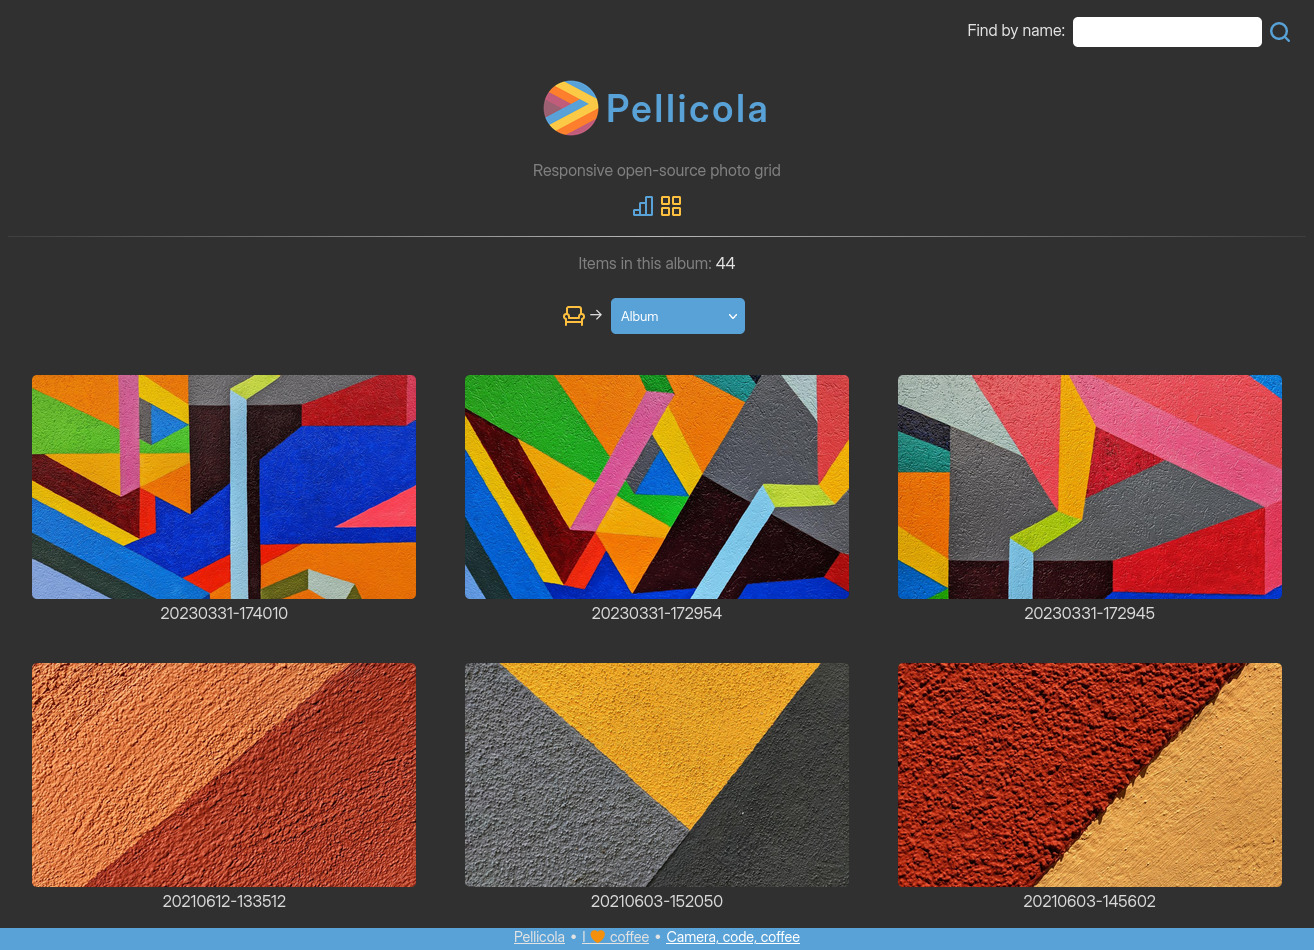
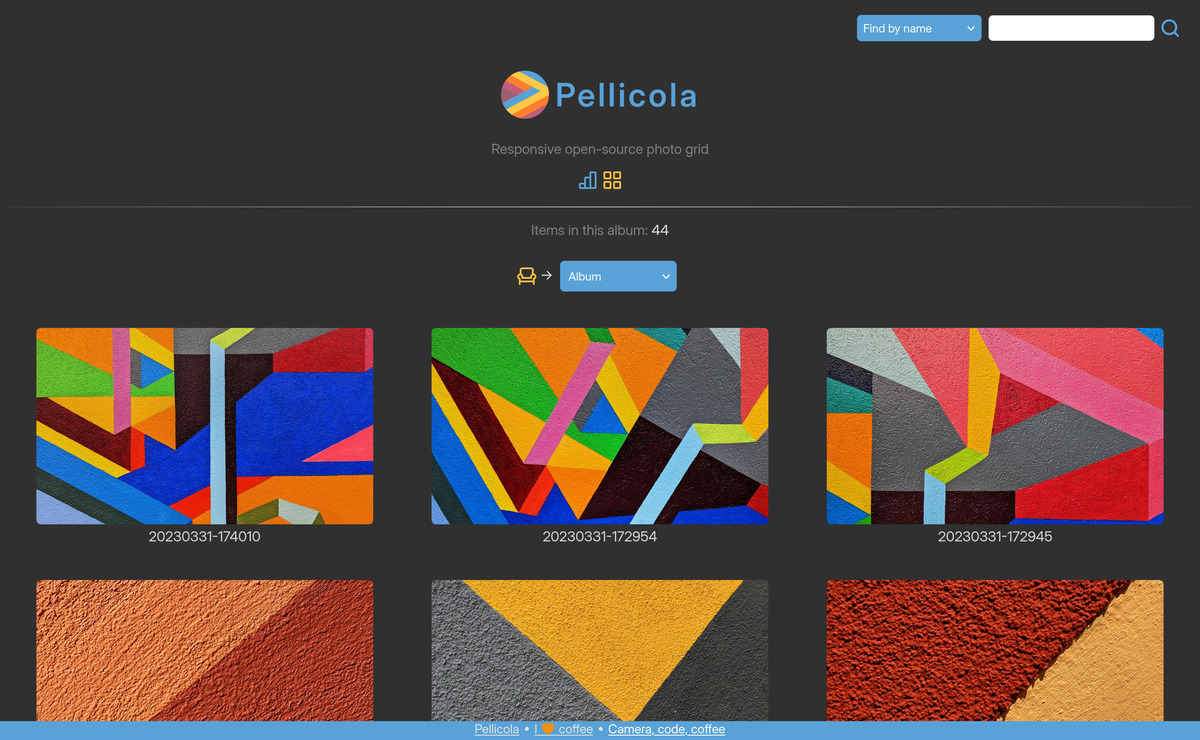
Search by description

diff --git a/index.php b/index.php
@@ -174,9 +174,20 @@ if (session_status() == PHP_SESSION_NONE) {
 			mkdir($tims_dir);
 		}
 
+		$files = array();
 		// Find all files or a specific file if $_GET["query"] is set
-		if (isset($_GET["query"])) {
-			$files = glob($photo_dir . "*" . $_GET["query"] . "*.{" . $img_formats . "}", GLOB_BRACE);
+		if (isset($_GET['query'])) {
+			if ($_GET['search'] == 'search_name') {
+				$files = glob($photo_dir . "*" . $_GET['query'] . "*.{" . $img_formats . "}", GLOB_BRACE);
+			} else {
+				$all_files = glob($photo_dir . "*.{" . $img_formats . "}", GLOB_BRACE);
+				foreach ($all_files as $file) {
+					$exif = exif_read_data($file, 0, true);
+					if (stripos($exif['COMMENT']['0'], $_GET['query']) !== FALSE) {
+						array_push($files, $file);
+					}
+				}
+			}
 		} else {
 			$files = glob($photo_dir . "*.{" . $img_formats . "}", GLOB_BRACE);
 		}
@@ -280,10 +291,15 @@ if (session_status() == PHP_SESSION_NONE) {
 			<!-- Search field in the upper-right corner -->
 			<div class="topcorner">
 				<form autocomplete="off" style="margin-top: 0.5em; margin-right: 1em;" method="GET" action=" ">
-					<label for='weight'><?php echo L::find_by_name; ?>:</label>
-					<input style="vertical-align: middle;" type='text' name='query'>
+					<select style="vertical-align: middle;" name="search">
+						<option value="search_name"><?php echo L::find_by_name; ?></option>
+						<option value="search_usercomment"><?php echo L::find_by_usercomment; ?></option>
+					</select>
+					<input style="vertical-align: middle;" type="text" name="query">
 					<!-- The hidden input field is used to pass the $album value (album) to the search -->
 					<input type='hidden' name='album' value='<?php echo $album; ?>'>
+					<!-- The hidden input field to set $_GET['all'] to show all results without pagination -->
+					<input type='hidden' name='all' value='show'>
 					<input style="vertical-align: middle;" type="image" src="svg/search.svg" alt="<?php echo L::search_btn; ?>" title="<?php echo L::search_btn; ?>">
 				</form>
 			</div>

diff --git a/README.md b/README.md
@@ -14,7 +14,7 @@ The [Pellicola manual](https://dmpop.gumroad.com/l/pellicola-manual) provides de
 - **Instant and easy photo publishing** Upload photos, and Pellicola does the rest.
 - **Responsive design** Pellicola works well on mobile devices.
 - **Pagination** Pellicola automatically splits photo collection into pages. You can specify the desired number of photos per page.
-- **Search** Basic search functionality makes it possible to find photos by their (partial) file names.
+- **Search** Basic search functionality makes it possible to find photos by their file names and descriptions.
 - **Basic EXIF data** The app extracts and displays basic EXIF info for each photo, including aperture, shutter speed, and ISO.
 - **Show map** If the `$show_map` option is enabled, Pellicola displays an embedded map marking the position of the currently viewed geotagged photo.
 - **OpenStreetMap links or Geo URIs** For geotagged photos, Pellicola displays either OpenStreetMap links or geo URIs that show the exact locations where the photos were taken either in OpenStreetMap or in the default map application.
